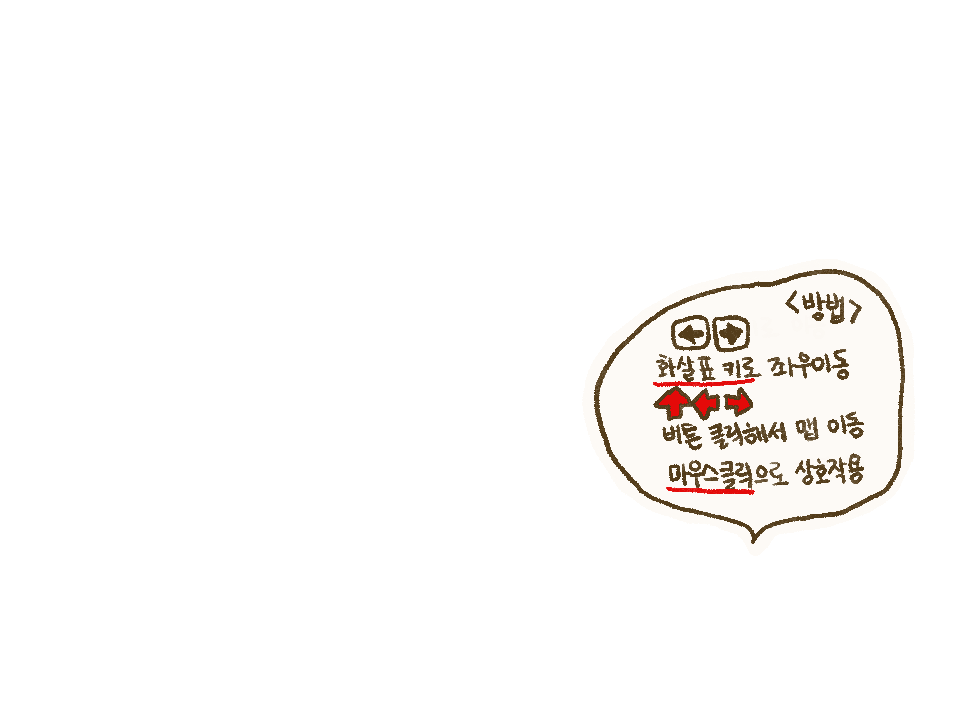
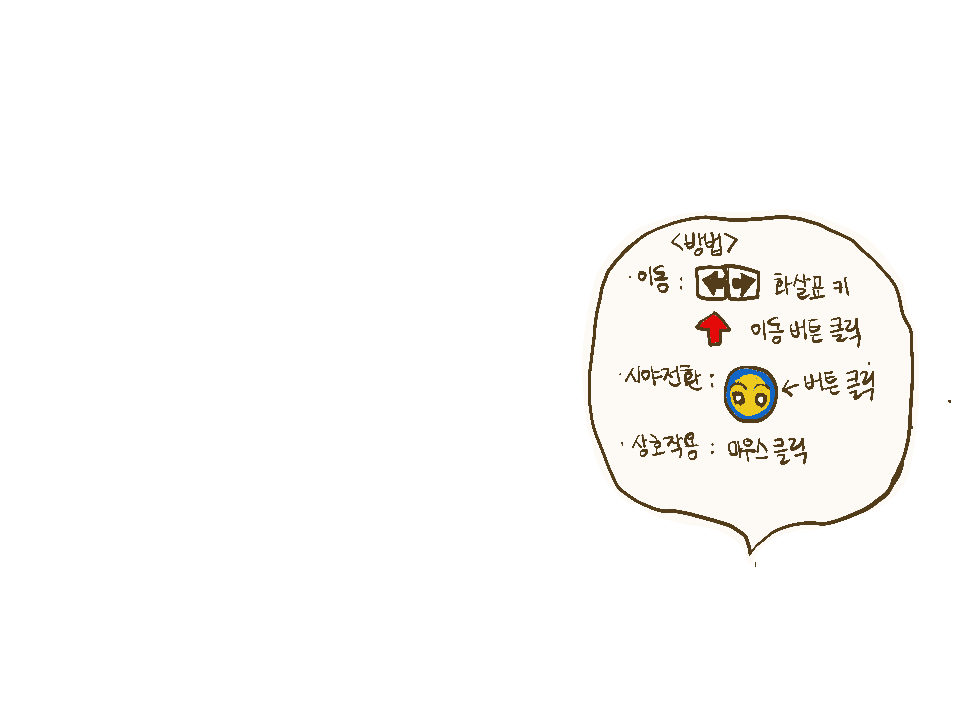
시작 화면 수정사항 반영
- 게임방법 설명 추가
- down 보여주고 up 안보여주고로 변경

Changed region(s): [[0.5938, 0.275, 0.9688, 0.7639], [0.8438, 0.3056, 0.875, 0.3361]]

diff --git a/js/start.js b/js/start.js
@@ -13,13 +13,16 @@ var startGame = new Phaser.Class({
         this.add.image(480, 360, 'start');
         btnStart = this.add.image(250, 600, 'game-start');
         btnHow = this.add.image(700, 600, 'game-how');
+
         btnStart.setInteractive().on('pointerdown', function() {
             BGM_MAP.play();
             game.scene.stop('start'); game.scene.start('1000');
         }, this);
         btnHow.setInteractive().on('pointerdown', function() {
-            this.how = this.add.sprite(480, 360, 'talk-howto');
-            this.how.anims.play('talk-how', true);
+            this.how = this.add.sprite(480, 360, 'howToPlay');
+        }, this);
+        btnHow.setInteractive().on('pointerup', function() {
+            this.how.visible = false;
         }, this);
     },
 

diff --git a/js/preload.js b/js/preload.js
@@ -225,7 +225,7 @@ var preloadState = new Phaser.Class({
         // 시작페이지 버튼
         this.load.image('game-start', 'assets/main-ui/btn-start.png');
         this.load.image('game-how', 'assets/main-ui/btn-howto.png');
-        this.load.spritesheet('howToPlay', 'assets/main-ui/opening-talk-how.png', {frameWidth: 960, frameHeight: 720});
+        this.load.image('howToPlay', 'assets/main-ui/opening-talk-how.png');
 
 
         // 미니게임 배경

diff --git a/game.html b/game.html
@@ -4,8 +4,6 @@
     <meta charset="UTF-8">
     <meta name="viewport" content="width=device-width, initial-scale=1.0">
     <title>깨비슈퍼</title>
-    <script src="lib/p5.js"></script>
-    <script src="lib/p5.play.js"></script>
     <link rel="stylesheet" href="style.css">
     <style>
         #my-game {
